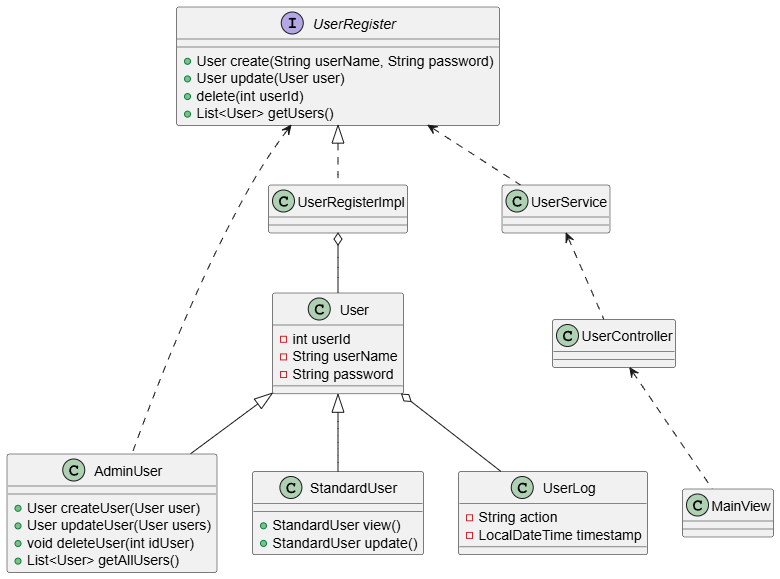
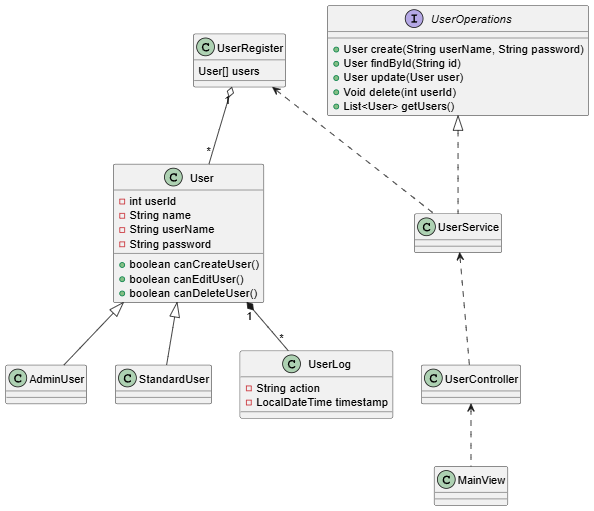
Fix: Se modifica el diagrama uml para que el servicio implemente la interfaz de operaciones de usuario

diff --git a/src/view/MainView.java b/src/view/MainView.java
@@ -23,14 +23,22 @@ public class MainView {
 
         User user = new User(username, password);
 
-        User loggedUser = userController.login(user);
+        String userType = userController.login(user);
 
-        if(loggedUser != null){
-            System.out.println("Bienvenido! " + user.getUserName());
+        if(userType == "admin"){
+            System.out.println("Bienvenido, Administrador");
+            adminView();
+        }else if (userType == "standard"){
+            System.out.println("Bienvenido Usuario");
+            standardView();
         }else{
-            System.out.println("El usuario " + user.getUserName() + " no está registrado en el sistema");
+            System.out.println("Nombre de usuario o contraseña incorrectos.");
             login();
         }
+    }
+
+    private void standardView() {
+        System.out.println("Bienvenido usuario");
     }
 
     public void showUserLogs(User user){
@@ -40,5 +48,19 @@ public class MainView {
         for(UserLog log: user.getUserLogs()){
             System.out.println("Acción: " + log.getAction() + "\n" + "Timestamp: " + log.getTimestamp());
         }
+    }
+
+    public Integer adminView(){
+
+        System.out.println("Panel principal usuario *Administrador*");
+        System.out.println("1.Crear usuario nuevo");
+        System.out.println("2.Actualizar usuario existente");
+        System.out.println("3.Eliminar usuario");
+        System.out.println("4.Mostrar lista de usuarios");
+        System.out.println("5.Cerrar sesión");
+
+        Integer userOption = scanner.nextInt();
+
+        return userOption;
     }
 }

diff --git a/src/controller/UserController.java b/src/controller/UserController.java
@@ -2,6 +2,8 @@ package controller;
 
 import java.util.List;
 
+import model.AdminUser;
+import model.StandardUser;
 import model.User;
 import model.UserLog;
 import service.UserService;
@@ -14,8 +16,20 @@ public class UserController {
         this.userService = userService;
     }
 
-    public User login(User user){
-        return userService.login(user);
+    public void createUser(User user){
+        userService.createUser(user);
+    }
+
+    public String login(User user){
+        User loggedUser = userService.login(user);
+
+        if(loggedUser instanceof AdminUser){
+            return "admin";
+        }else if(loggedUser instanceof StandardUser){
+            return "standard";
+        }else{
+            return "fail";
+        }
     }
 
     public List<UserLog> getUserLogs(User user){

diff --git a/src/service/UserService.java b/src/service/UserService.java
@@ -2,6 +2,8 @@ package service;
 
 import java.util.List;
 
+import model.AdminUser;
+import model.StandardUser;
 import model.User;
 import model.UserLog;
 import model.UserRegister;
@@ -12,6 +14,16 @@ public class UserService {
 
     public UserService (UserRegister userRegister){
         this.userRegister = userRegister;
+    }
+
+    public void createUser(User user){
+
+        if(user instanceof AdminUser){
+            userRegister.create(new AdminUser(user.getUserName(), user.getPassword(), userRegister));
+        }else if (user instanceof StandardUser){
+            userRegister.create(new StandardUser(user.getUserName(), user.getPassword()));
+        }
+        
     }
 
     public User login(User user){

diff --git a/src/model/UserReigsterImpl.java b/src/model/UserReigsterImpl.java
@@ -5,7 +5,7 @@ import java.util.List;
 public class UserReigsterImpl implements UserRegister{
 
     List<User> users = List.of(
-        new User("miguel", "123")
+        new AdminUser("admin", "admin", this)
     );
 
     @Override
